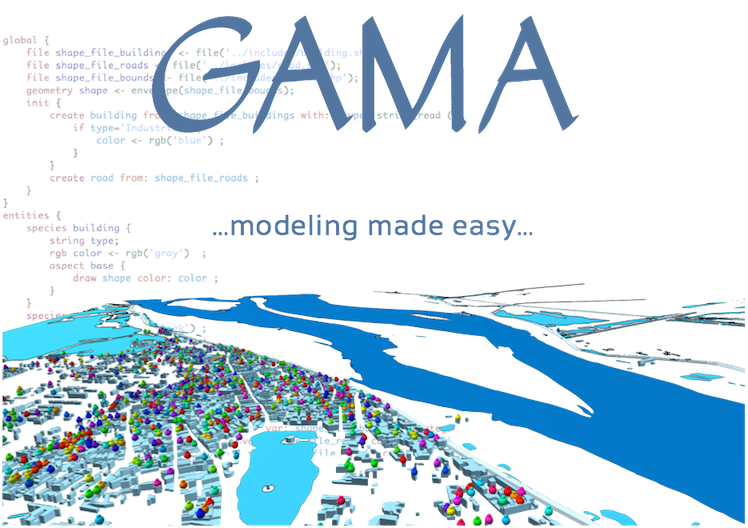
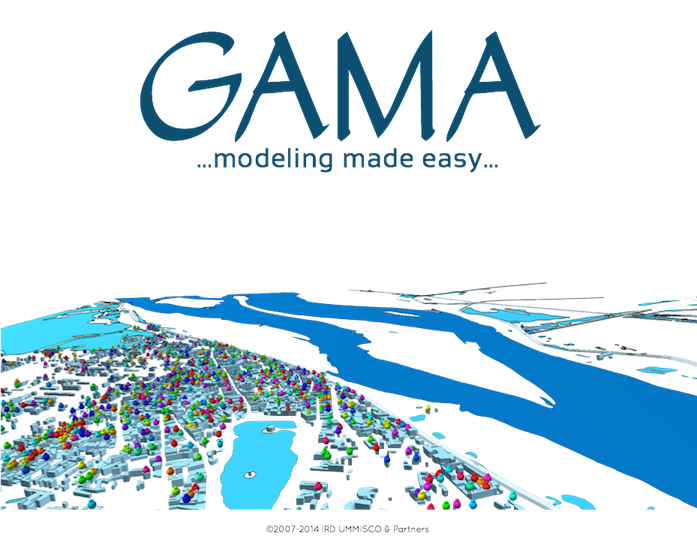
Refines a bit the web browser and the welcome page
git-svn-id: https://gama-platform.googlecode.com/svn/branches/GAMA_CURRENT@9684 b91ef52e-2b48-11df-9ab6-b1cdc0d4a89a

diff --git a/msi.gama.ext/images/welcome.html b/msi.gama.ext/images/welcome.html
@@ -3,9 +3,9 @@
   background:url(welcome.png) center center no-repeat;">
    <head>
 <style type="text/css">
-ul#navlist li { display: inline; padding: 8px 8px 8px 8px; }
+ul#navlist li {  display: inline-block; padding: 8px 8px 8px 8px;}
 .button {
-	background-color:#435F8C;
+	background-color:#144C75;
 	-webkit-border-top-left-radius:0px;
 	-moz-border-radius-topleft:0px;
 	border-top-left-radius:0px;
@@ -31,7 +31,7 @@ ul#navlist li { display: inline; padding: 8px 8px 8px 8px; }
 	text-decoration:none;
 	text-align:center;
 }.button:hover {
-	background-color:#0E3D5E;
+	background-color:#1B63BB;
 }.button:active {
 	position:relative;
 	top:1px;
@@ -42,8 +42,8 @@ display: inline-block;
 }
 
 </style>
-   </head><body style="text-align: center;  ">
-<div class="center">
+   </head><body style= "text-align: center;">
+<div >
    <ul id="navlist">
 		<li><a href="https://code.google.com/p/gama-platform" class="button">Website</a></li>
 		<li><a href="https://code.google.com/p/gama-platform/wiki/GAMAIntro161" class="button">Documentation</a></li>

diff --git a/msi.gama.application/src/msi/gama/gui/views/BrowserEditor.java b/msi.gama.application/src/msi/gama/gui/views/BrowserEditor.java
@@ -4,10 +4,14 @@
  */
 package msi.gama.gui.views;
 
+import msi.gama.gui.swt.SwtGui;
+import msi.gama.gui.views.actions.BrowserItem;
 import org.eclipse.core.runtime.IProgressMonitor;
+import org.eclipse.jface.action.ToolBarManager;
 import org.eclipse.swt.SWT;
 import org.eclipse.swt.browser.Browser;
-import org.eclipse.swt.widgets.Composite;
+import org.eclipse.swt.layout.*;
+import org.eclipse.swt.widgets.*;
 import org.eclipse.ui.*;
 import org.eclipse.ui.part.EditorPart;
 
@@ -19,6 +23,17 @@ import org.eclipse.ui.part.EditorPart;
  * 
  */
 public class BrowserEditor extends EditorPart {
+
+	static BrowserItem[] items;
+
+	static {
+		items = new BrowserItem[5];
+		items[0] = new BrowserItem.Back();
+		items[1] = new BrowserItem.Home();
+		items[2] = new BrowserItem.Forward();
+		items[3] = new BrowserItem.Stop();
+		items[4] = new BrowserItem.Refresh();
+	}
 
 	Browser browser;
 
@@ -75,8 +90,24 @@ public class BrowserEditor extends EditorPart {
 	 */
 	@Override
 	public void createPartControl(final Composite parent) {
+		GridLayout layout = new GridLayout(1, false);
+		parent.setBackground(SwtGui.getDisplay().getSystemColor(SWT.COLOR_WHITE));
+		layout.horizontalSpacing = 0;
+		layout.verticalSpacing = 0;
+		layout.marginHeight = 0;
+		layout.marginWidth = 0;
+		parent.setLayout(layout);
+		ToolBarManager mng = new ToolBarManager(SWT.FLAT);
+		for ( BrowserItem item : items ) {
+			item.setView(this);
+			mng.add(item);
+		}
+		ToolBar tb = mng.createControl(parent);
+		tb.setLayoutData(new GridData(SWT.CENTER, SWT.TOP, true, false));
 		browser = new Browser(parent, SWT.NONE);
-		// browser.setUrl("https://code.google.com/p/gama-platform/");
+		browser.setLayoutData(new GridData(SWT.FILL, SWT.FILL, true, true));
+
+		parent.layout();
 	}
 
 	public void setUrl(final String url) {
